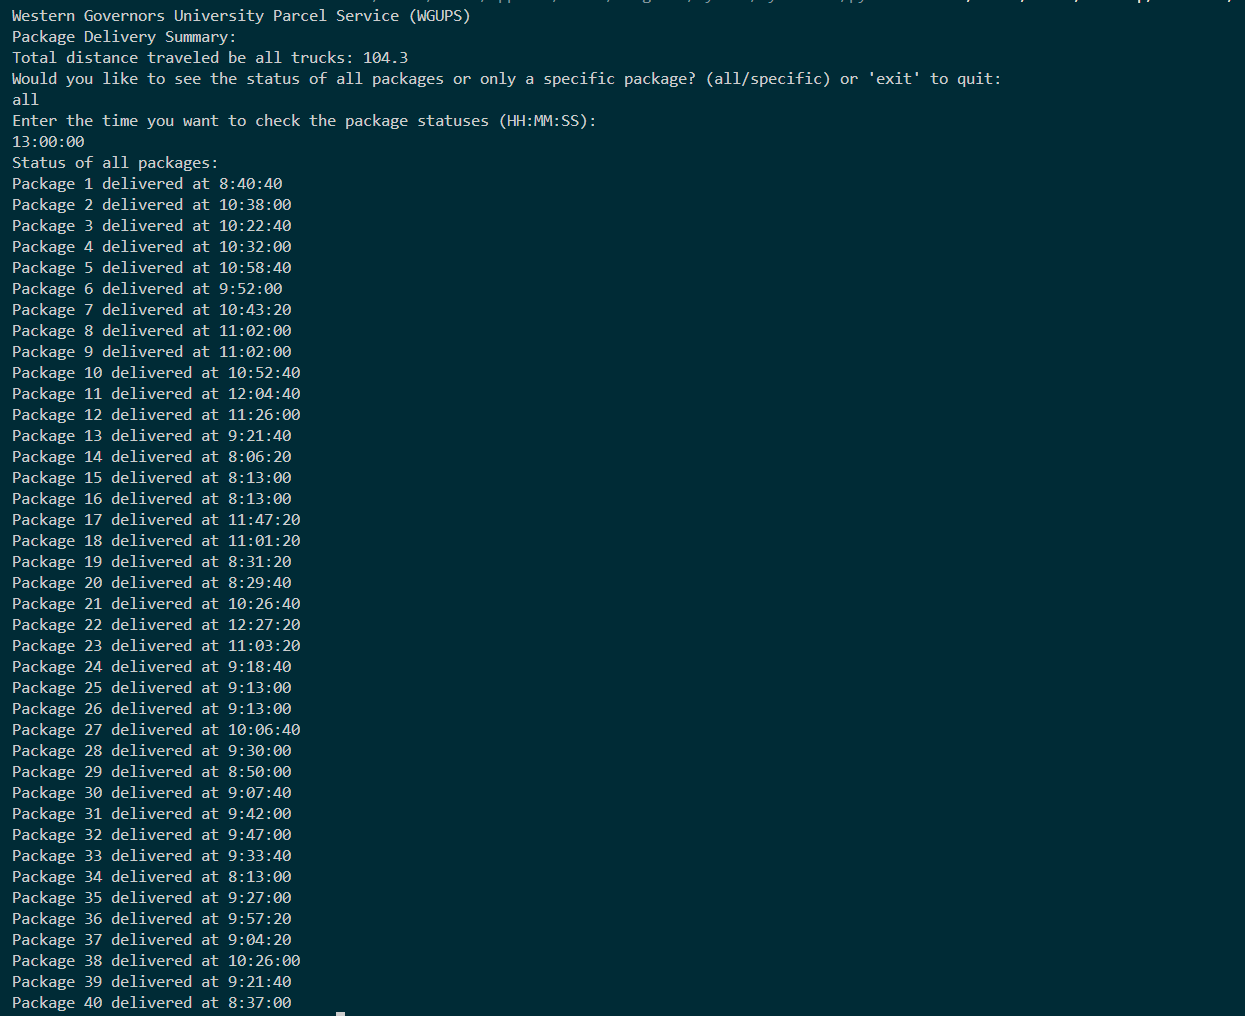
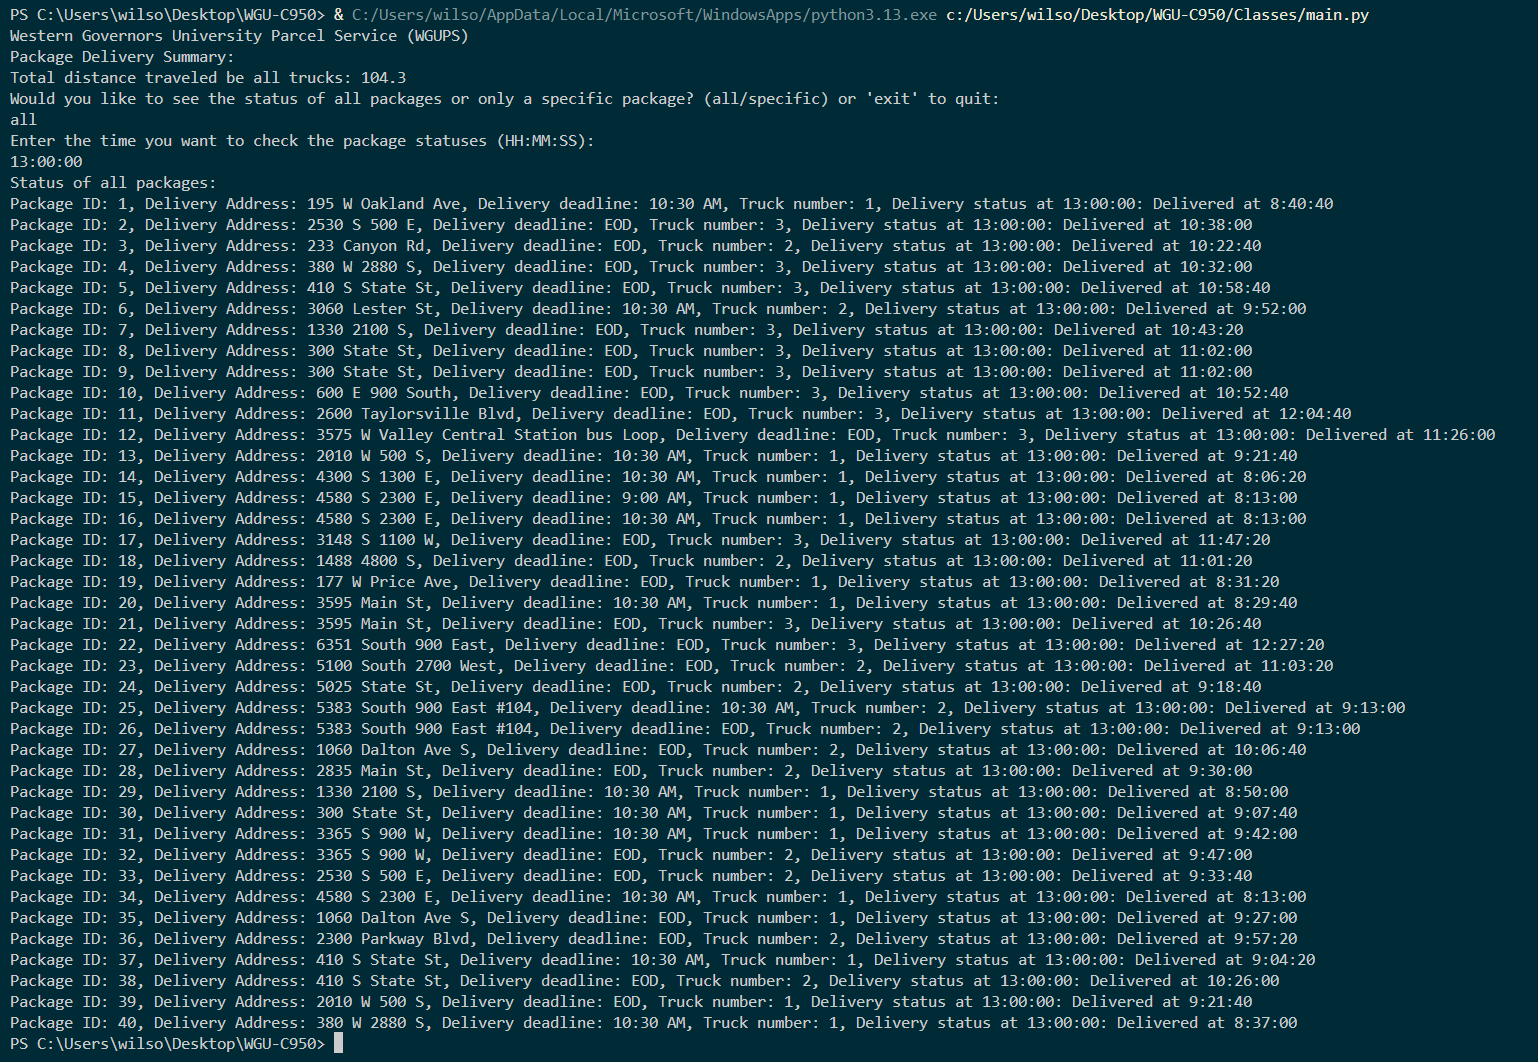
revisions

Changed region(s): [[0.0, 0.0, 0.9767, 1.0], [0.7631, 0.061, 0.7936, 0.0915], [0.702, 0.061, 0.7325, 0.0915]]

diff --git a/Classes/main.py b/Classes/main.py
@@ -96,16 +96,32 @@ def deliver_packages(truck_obj, start_time):
 def status_all_packages(time):
     for package_id in range(1, 41):
         package = packagetable.get(package_id)
-        if package.get_time_status(time) == "At The Hub" or package.get_time_status(time) == "En Route":
-            print(f"Package {package.ID} status at {time}: {package.get_time_status(time)}")
-        elif package.get_time_status(time) == "Delivered":
-            print(f"Package {package.ID} delivered at {package.delivery_time}")
-            
+        #print(f"Package ID: {package.ID}, Delivery Address: {package.address}, Delivery deadline: {package.deadline}, Truck number: {package.truck_id}, Delivery status at {time}: {package.get_time_status(time)}")
+        if package.get_time_status(time) == "Delivered":
+            print(f"Package ID: {package.ID}, Delivery Address: {package.address}, Delivery deadline: {package.deadline}, Truck number: {package.truck_id}, Delivery status at {time}: Delivered at {package.delivery_time}")
+        else:
+            print(f"Package ID: {package.ID}, Delivery Address: {package.address}, Delivery deadline: {package.deadline}, Truck number: {package.truck_id}, Delivery status at {time}: {package.get_time_status(time)}")
 
 # Create and load trucks with packages
 truck1 = truck.Truck(1, [14, 15, 19, 13, 16, 20, 1, 29, 30, 31, 34, 37, 40, 35, 39])
 truck2 = truck.Truck(2, [3, 18, 36, 38, 28, 32, 6, 25, 23, 24, 26, 27, 33])
 truck3 = truck.Truck(3, [9, 2, 4, 5, 7, 8, 10, 11, 12, 17 , 21, 22 ])
+
+# Update truck_id for all packages based on which truck they're assigned to
+trucks = [truck1, truck2, truck3]
+for truck_obj in trucks:
+    for package_id in truck_obj.get_packages():
+        package = packagetable.get(package_id)
+        if package:
+            package.truck_id = truck_obj.truck_id
+
+# Update delivery status of specific packages to "Delayed"
+delayed_packages = [6, 25, 28, 32]
+for package_id in delayed_packages:
+    package = packagetable.get(package_id)
+    if package:
+        package.update_status('Delayed')
+        #print(f"Package {package_id} status updated to 'Delayed'")
 
 class Main:
 
@@ -148,7 +164,11 @@ class Main:
         # If the package exists, prints its status at the given time
         # Otherwise, prints an error message
         if package:
-            print(f"Package {package.ID} status at {time}: {package.get_time_status(time)}")
+            #print(f"Package ID: {package.ID}, Delivery Address: {package.address}, Delivery deadline: {package.deadline}, Truck number: {package.truck_id}, Delivery status at {time}: {package.get_time_status(time)}")
+            if package.get_time_status(time) == "Delivered":
+                print(f"Package ID: {package.ID}, Delivery Address: {package.address}, Delivery deadline: {package.deadline}, Truck number: {package.truck_id}, Delivery status at {time}: Delivered at {package.delivery_time}")
+            else:
+                print(f"Package ID: {package.ID}, Delivery Address: {package.address}, Delivery deadline: {package.deadline}, Truck number: {package.truck_id}, Delivery status at {time}: {package.get_time_status(time)}")
         else:
             print(f"Package with ID {package_id} not found.")
     # If user input is exit, exits the program

diff --git a/Classes/package.py b/Classes/package.py
@@ -14,12 +14,13 @@ class package:
         self.status = status
         self.delivery_time = timedelta(hours=0)
         self.departure_time = timedelta(hours=0)
+        self.truck_id = None
 
     # Returns a string description of the package object
     def __str__(self):
         return (f"Package ID: {self.ID}, Address: {self.address}, City: {self.city}, "
                 f"State: {self.state}, Zip Code: {self.zip_code}, Delivery Deadline: {self.deadline}, Weight: {self.weight} kgs, "
-                f"Delivery Status: {self.status}, Delivery Time: {self.delivery_time}")
+                f"Delivery Status: {self.status}, Delivery Time: {self.delivery_time}, Truck ID: {self.truck_id}")
     
     # Updates the status of the package
     def update_status(self, status):
@@ -33,8 +34,11 @@ class package:
     def get_status(self):
         return self.status
     
+    # Returns status of the package at a given time
     def get_time_status(self, time):
-        if self.delivery_time < time:
+        if (self.ID == 6 or self.ID == 25 or self.ID == 28 or self.ID == 32) and time < timedelta(hours=9, minutes=5):
+            return "Delayed"
+        elif self.delivery_time < time:
             return "Delivered"
         elif self.delivery_time > time and self.departure_time < time:
             return "En Route"
